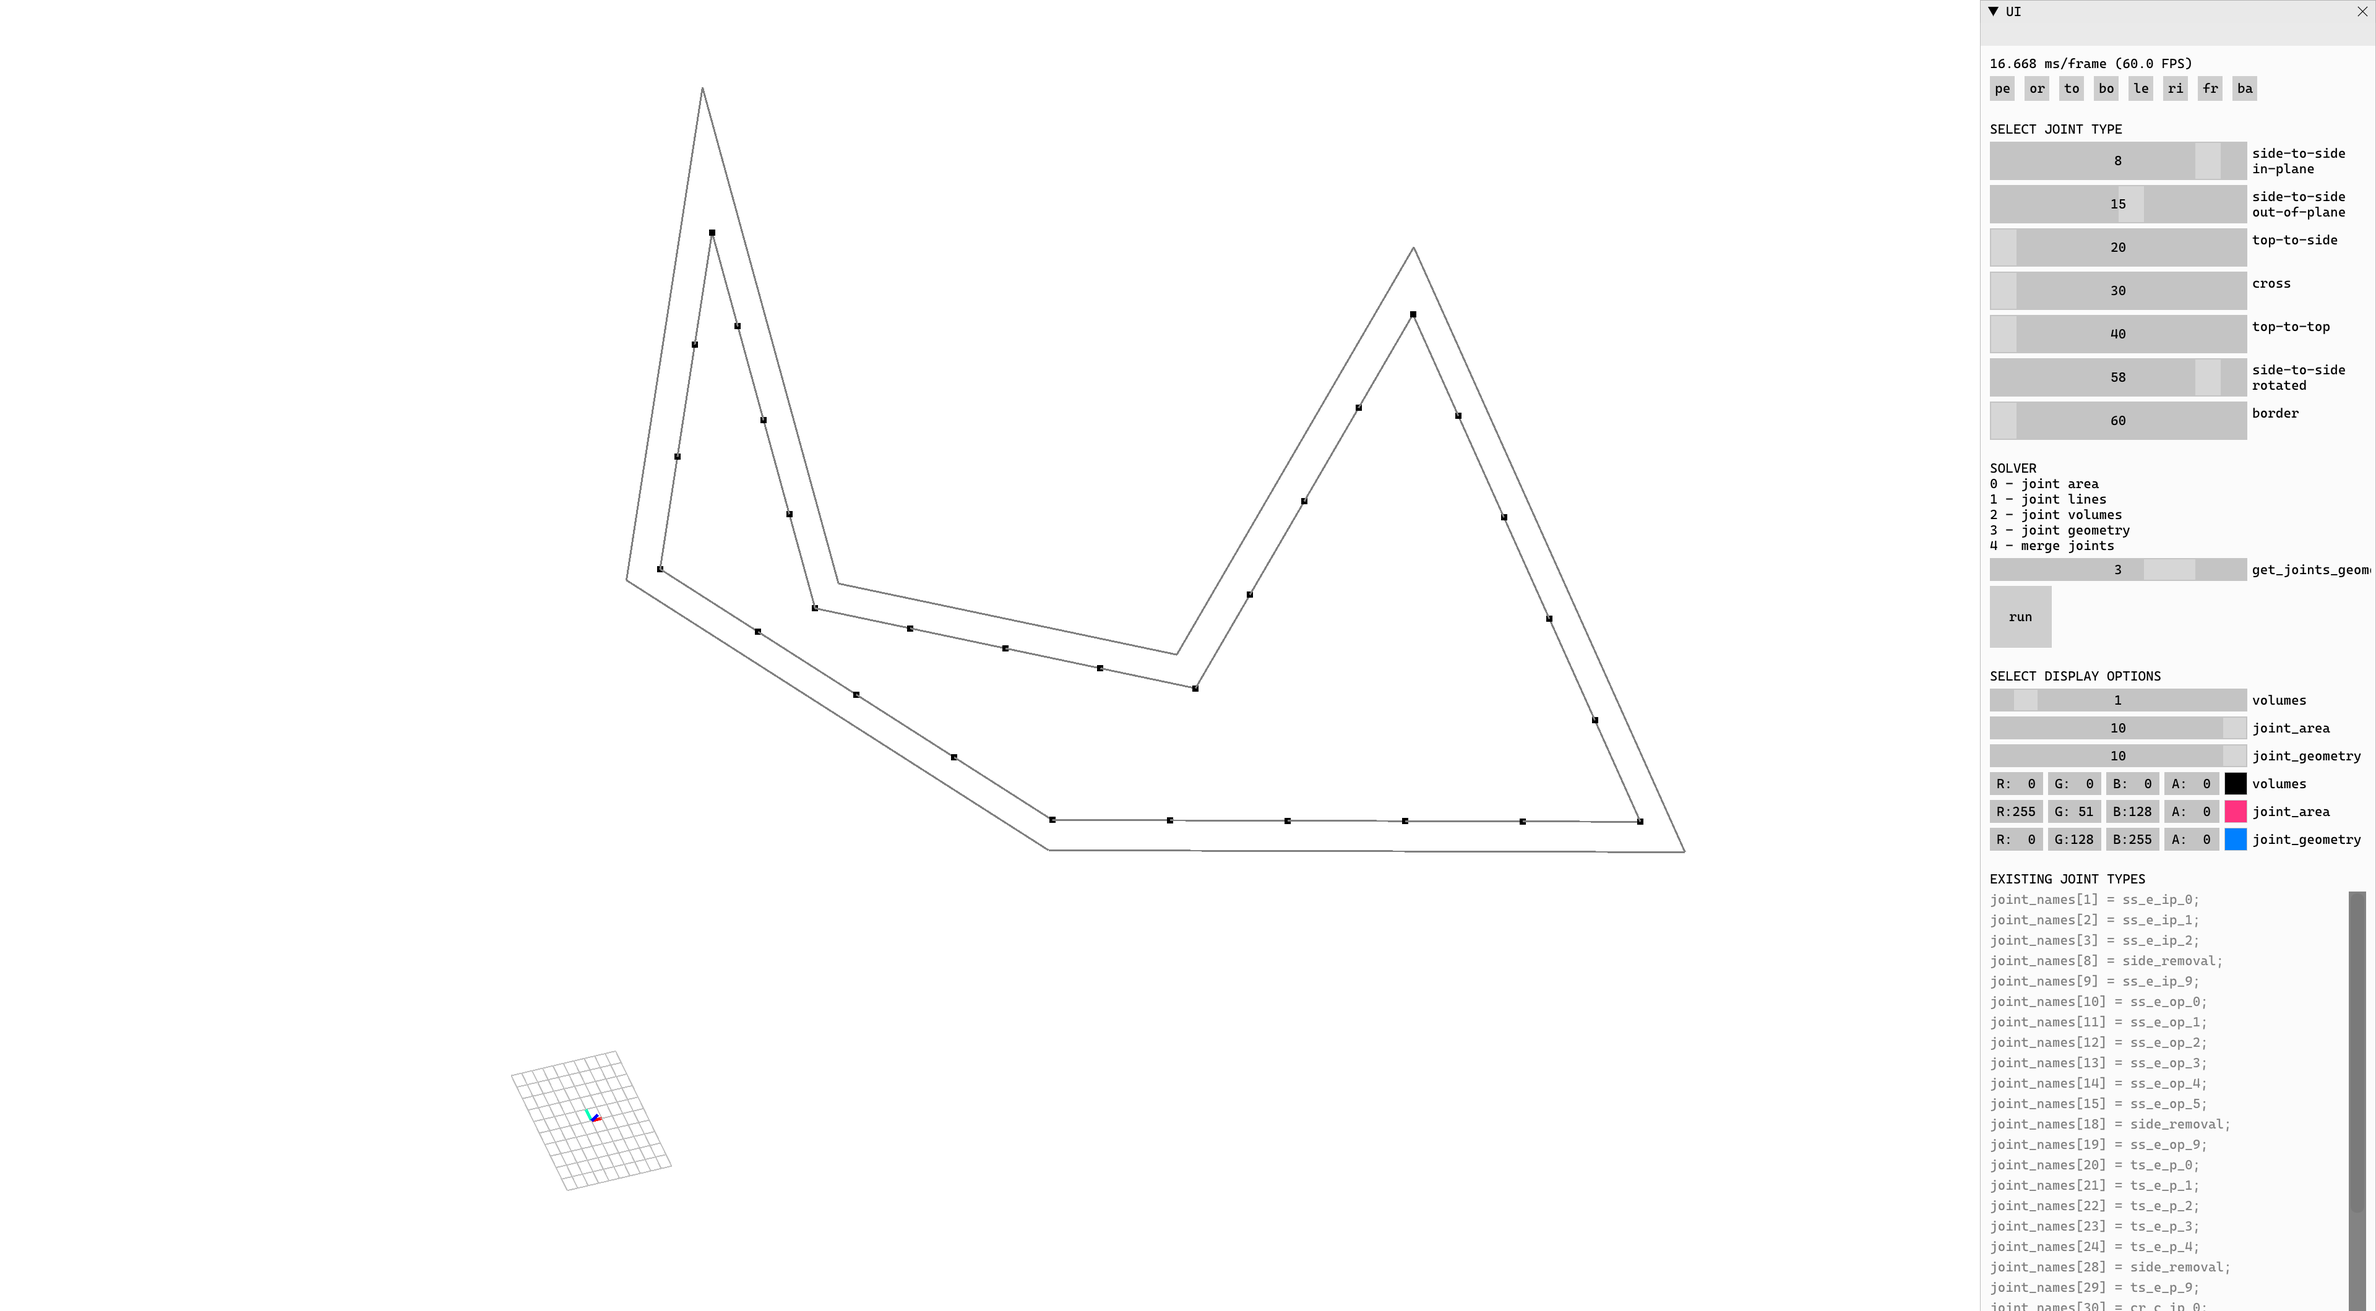
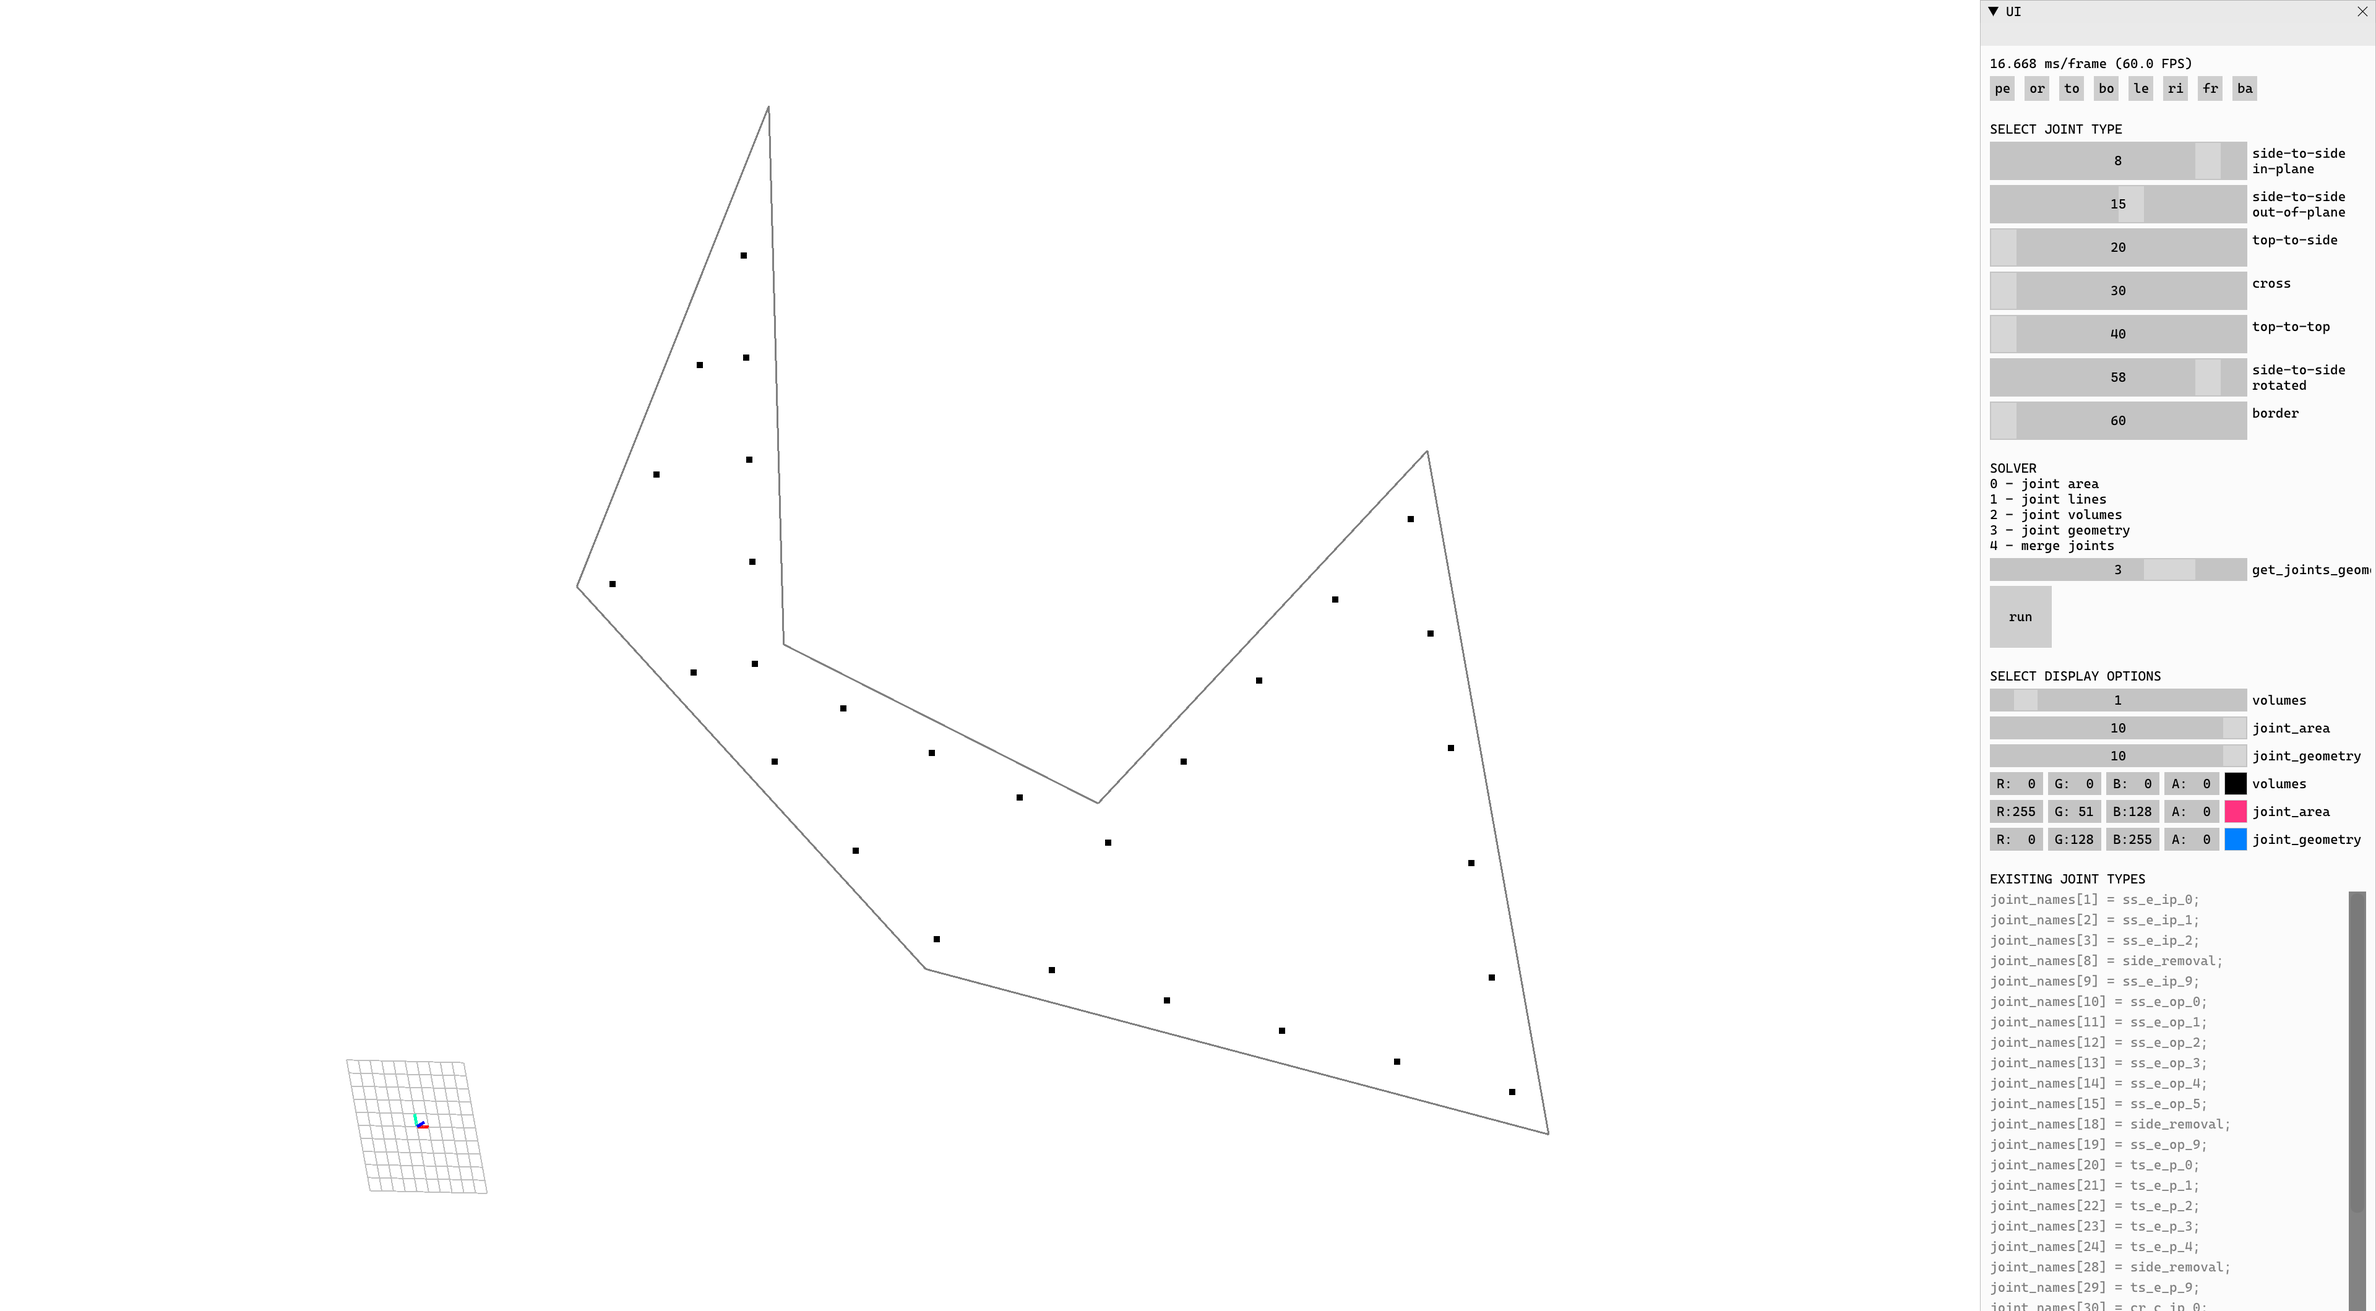
FIX wood_test -> wrap the offset into a separate method type_geometry_name_offest_polygon_inside_and_divide_into_points and, add offset to type_geometry_name_grid_of_points_in_a_polygo, add no trasform offset in 2Dn

Changed region(s): [[0.1562, 0.8098, 0.2812, 0.9033], [0.625, 0.6229, 0.6562, 0.6541], [0.4375, 0.6229, 0.4688, 0.6541]]

diff --git a/backend/src/wood/include/clipper_util.h b/backend/src/wood/include/clipper_util.h
@@ -152,6 +152,82 @@ namespace clipper_util
         return true;
     }
 
+    inline bool offset_2D_no_orient(
+        CGAL_Polyline &p0,
+        const double &offset,
+        double scale = 100000.0)
+    {
+        /////////////////////////////////////////////////////////////////////////////////////
+        // Orient from 3D to 2D
+        /////////////////////////////////////////////////////////////////////////////////////
+        if (p0.size() > p0.max_size())
+            return false;
+
+        CGAL_Polyline a = p0;
+
+        /////////////////////////////////////////////////////////////////////////////////////
+        // Convert to Clipper
+        /////////////////////////////////////////////////////////////////////////////////////
+        Clipper2Lib::Path64 pathA(a.size() - 1);
+
+        for (int i = 0; i < a.size() - 1; i++)
+        {
+            pathA[i] = Clipper2Lib::Point64((int)(a[i].x() * scale), (int)(a[i].y() * scale));
+        }
+
+        double offset_ = offset * scale;
+        Clipper2Lib::Paths64 C;
+        C.emplace_back(pathA);
+        C = Clipper2Lib::InflatePaths(C, offset_, Clipper2Lib::JoinType::Miter, Clipper2Lib::EndType::Polygon);
+
+        if (C.size() > 0)
+        {
+
+            if (C[0].size() > 3 && std::abs(Area(C[0])) > std::abs(Area(pathA) * GlobalClipperAreaTolerance))
+            { // skip triangles and very small polygons
+
+                // Not Sure if rotation is correct, I doubt that cp_id+1 is needed,
+                int cp_id = 0;
+                double cp_dist = std::pow(pathA[0].x - C[0][0].x, 2) + std::pow(pathA[0].y - C[0][0].y, 2);
+                for (int i = 1; i < C[0].size(); i++)
+                {
+                    double dist = std::pow(pathA[0].x - C[0][i].x, 2) + std::pow(pathA[0].y - C[0][i].y, 2);
+                    if (dist < cp_dist)
+                    {
+                        cp_dist = dist;
+                        cp_id = i;
+                    }
+                }
+                std::rotate(C[0].begin(), C[0].begin() + cp_id, C[0].end());
+                // std::rotate(C[0].begin(), C[0].begin()+ C[0].size()- cp_id, C[0].end());
+
+                p0.clear();
+                p0.resize(C[0].size() + 1);
+
+                for (int i = 0; i < C[0].size(); i++)
+                {
+                    IK::Point_3 p(C[0][i].x / scale, C[0][i].y / scale, 0);
+                    p0[i] = p;
+                }
+
+                p0[C[0].size()] = p0[0]; // Close
+            }
+            else
+            {
+                return false;
+            }
+        }
+        else
+        {
+            return false;
+        }
+
+        /////////////////////////////////////////////////////////////////////////////////////
+        // Output
+        /////////////////////////////////////////////////////////////////////////////////////
+        return true;
+    }
+
     inline bool offset_2D(
         CGAL_Polyline &p0,
         IK::Plane_3 &plane,
@@ -183,17 +259,12 @@ namespace clipper_util
             pathA[i] = Clipper2Lib::Point64((int)(a[i].x() * scale), (int)(a[i].y() * scale));
         }
 
-        // Clipper2Lib::ClipperOffset clipper;
-        // clipper.AddPath(pathA, ClipperLib::JoinType::jtMiter, ClipperLib::EndType::etClosedPolygon);
-        // Clipper2Lib::Paths64 C;
-        // clipper.Execute(C, offset * scale);
 
         double offset_ = offset * scale;
         Clipper2Lib::Paths64 C;
         C.emplace_back(pathA);
         C = Clipper2Lib::InflatePaths(C, offset_, Clipper2Lib::JoinType::Miter, Clipper2Lib::EndType::Polygon);
 
-        // printf("\n offset %f", offset);
 
         if (C.size() > 0)
         {
@@ -303,4 +374,43 @@ namespace clipper_util
         return true;
     }
 
+    /**
+     * offset and divide a planar polyline to points
+     * WARNING: the offset is running the clipper offset algorithm, but only one polyline is outputed
+     * the polyline takes into account 3d outlines
+     * the division method adds all corner points and interpolates corners by a division distance
+     * the method is able to divide open and closed polylines
+     * c) intersection between line and elements have to be computed to get a correct line length
+     *
+     * @param [out] result division points
+     * @param [in] polygon polyline
+     * @param [in] offset_distance distance must be negative to offset the polyline inwards
+     * @param [in] division_distance distance between two points
+     * @return bool if the result is successful, e.g. box is valid or the input polyline has less than 3 points
+     */
+    inline bool offset_and_divide_to_points(std::vector<IK::Point_3> &result, std::vector<IK::Point_3> &polygon, double offset_distance = -2.5, double division_distance = 10)
+    {
+
+        // offset polygon
+        IK::Point_3 center;
+        IK::Plane_3 plane;
+        CGAL_Polyline polygon_copy = polygon;
+        cgal_polyline_util::get_fast_plane(polygon_copy, center, plane);
+        clipper_util::offset_2D(polygon_copy, plane, offset_distance);
+
+        // interpolate two points in steps
+        for (int i = 0; i < polygon_copy.size() - 1; i++)
+        {
+            std::vector<IK::Point_3> division_points;
+            int divisions = (int)std::min(100.0, std::sqrt(CGAL::squared_distance(polygon_copy[i], polygon_copy[i + 1])) / division_distance);
+            cgal_vector_util::interpolate_points(polygon_copy[i], polygon_copy[i + 1], divisions, division_points, 1);
+            result.insert(result.end(), division_points.begin(), division_points.end());
+        }
+
+        // if the polyline is open add the end of the polyline to the points
+        if (CGAL::squared_distance(polygon_copy.front(), polygon_copy.back()) > GlobalToleranceSquare)
+            result.emplace_back(polygon_copy.back());
+
+        return true;
+    }
 }

diff --git a/backend/src/wood/include/wood_test.cpp b/backend/src/wood/include/wood_test.cpp
@@ -1243,7 +1243,7 @@ namespace wood_test
 
         // main method
         std::vector<IK::Point_3> points;
-        cgal_rectangle_util::grid_of_points_in_a_polygon(polygon, 2.5, 100, points);
+        cgal_rectangle_util::grid_of_points_in_a_polygon(polygon, -2.5, 2.5, 100, points);
 
         // display
         opengl_globals_geometry::add_grid();
@@ -1278,35 +1278,48 @@ namespace wood_test
 
         // main method
         std::vector<IK::Point_3> points;
-        double offset_distance = -2.5;
-        double division_distance = 10;
-
-        // offset polygon
-        IK::Point_3 center;
-        IK::Plane_3 plane;
-        CGAL_Polyline polygon_copy = polygon;
-        cgal_polyline_util::get_fast_plane(polygon_copy, center, plane);
-        clipper_util::offset_2D(polygon_copy, plane, offset_distance);
-
-        // interpolate two points in steps
-        for (int i = 0; i < polygon_copy.size() - 1; i++)
-        {
-            std::vector<IK::Point_3> division_points;
-            int divisions = (int)std::min(100.0, std::sqrt(CGAL::squared_distance(polygon_copy[i], polygon_copy[i + 1])) / division_distance);
-            cgal_vector_util::interpolate_points(polygon_copy[i], polygon_copy[i + 1], divisions, division_points, 1);
-            points.insert(points.end(), division_points.begin(), division_points.end());
-        }
-
-        // if the polyline is open
-        if (CGAL::squared_distance(polygon_copy.front(), polygon_copy.back()) > GlobalToleranceSquare)
-        {
-            points.emplace_back(polygon_copy.back());
-        }
+        clipper_util::offset_and_divide_to_points(points, polygon, -2.5, 10);
 
         // display
         opengl_globals_geometry::add_grid();
         viewer_wood::scale = 10;
-        std::vector<CGAL_Polyline> polylines = {polygon, polygon_copy};
+        std::vector<CGAL_Polyline> polylines = {polygon}; //, polygon_copy
+        viewer_wood::add(polylines);
+        viewer_wood::line_thickness = 10;
+        viewer_wood::add(points);
+        viewer_wood::line_thickness = 3;
+        viewer_wood::scale = 1000;
+
+        // test
+        return true;
+    }
+
+    bool type_geometry_name_rectangle_ponts_inscribed_in_a_polygon()
+    {
+
+        // screenshot
+        internal::set_file_path_for_input_xml_and_screenshot("type_geometry_name_rectangle_ponts_inscribed_in_a_polygon");
+
+        // data-set
+        CGAL_Polyline polygon{
+            IK::Point_3(11.2247596176396, -4.60190643733344, 48.9387618537435),
+            IK::Point_3(-5.73799008527948, 27.7396887390699, 38.9994193935361),
+            IK::Point_3(-7.18751465466158, 52.2109764075134, 74.5663582911656),
+            IK::Point_3(1.68332949862521, 18.8956298287167, 52.2485552589767),
+            IK::Point_3(14.0704361211272, 1.10346344393741, 69.2793807577245),
+            IK::Point_3(18.9418950031543, 14.2294672539151, 109.735250000281),
+            IK::Point_3(33.4352381327694, -30.7000564810127, 89.2118909021016),
+            IK::Point_3(11.2247596176396, -4.60190643733344, 48.9387618537435),
+        };
+
+        // main method
+        std::vector<IK::Point_3> points;
+        // clipper_util::offset_and_divide_to_points(points, polygon, -2.5, 10);
+
+        // display
+        opengl_globals_geometry::add_grid();
+        viewer_wood::scale = 10;
+        std::vector<CGAL_Polyline> polylines = {polygon}; //, polygon_copy
         viewer_wood::add(polylines);
         viewer_wood::line_thickness = 10;
         viewer_wood::add(points);
@@ -1316,6 +1329,7 @@ namespace wood_test
         // test
         return false;
     }
+
     /////////////////////////////////////////////////////////////////////////////////////////////////////////////////////////////////////////////
     // GoogleTest
     /////////////////////////////////////////////////////////////////////////////////////////////////////////////////////////////////////////////
@@ -1401,6 +1415,11 @@ namespace wood_test
     TEST(wood, type_geometry_name_offest_polygon_inside_and_divide_into_points)
     {
         EXPECT_EQ(type_geometry_name_offest_polygon_inside_and_divide_into_points(), true);
+    }
+
+    TEST(wood, type_geometry_name_rectangle_ponts_inscribed_in_a_polygon)
+    {
+        EXPECT_EQ(type_geometry_name_rectangle_ponts_inscribed_in_a_polygon(), true);
     }
 
     /////////////////////////////////////////////////////////////////////////////////////////////////////////////////////////////////////////////

diff --git a/backend/src/wood/include/cgal_rectangle_util.h b/backend/src/wood/include/cgal_rectangle_util.h
@@ -379,12 +379,13 @@ namespace cgal_rectangle_util
      * @brief Calculate a grid of points inside a polygon by a) convex hull, b) its bounding box, c) grid of points inside the polygon
      *
      * @param [in] polygon input polyline
+     * @param [in] offset_distance negative value is inqards offset, positive outwards, 0 is ignored
      * @param [in] division_distance distance between points, if 0 the distance is calculated automatically
      * @param [in] max_points number of points
      * @param [out] points output points
      * @return bool flag if the result is valid
      */
-    inline bool grid_of_points_in_a_polygon(CGAL_Polyline &polygon, const double &division_distance, const int &max_points, std::vector<IK::Point_3> &points) // const double &divisions,
+    inline bool grid_of_points_in_a_polygon(CGAL_Polyline &polygon, const double &offset_distance, const double &division_distance, const int &max_points, std::vector<IK::Point_3> &points) // const double &divisions,
     {
 
         /////////////////////////////////////////////////////////////////////////////////////////////////////////////////////////////////////////////
@@ -394,6 +395,12 @@ namespace cgal_rectangle_util
         orient_polyline_to_xy_and_back(polygon, xform_to_xy, xform_to_xy_inv);
         CGAL_Polyline polygon_copy = polygon;
         cgal_polyline_util::Transform(polygon_copy, xform_to_xy);
+
+        /////////////////////////////////////////////////////////////////////////////////////////////////////////////////////////////////////////////
+        // offset polygon if the input is below 0
+        /////////////////////////////////////////////////////////////////////////////////////////////////////////////////////////////////////////////
+        if (offset_distance != 0)
+            clipper_util::offset_2D_no_orient(polygon_copy, offset_distance);
 
         /////////////////////////////////////////////////////////////////////////////////////////////////////////////////////////////////////////////
         // calculate the convex hull
@@ -490,8 +497,8 @@ namespace cgal_rectangle_util
         int divisions_u, divisions_v;
         // if (division_distance != 0)
         //{
-        divisions_u = std::min(std::min(20.0, max_points*0.5), std::floor(std::sqrt(half_dir_u.squared_length()) / division_distance));
-        divisions_v = std::min(std::min(20.0, max_points*0.5), std::floor(std::sqrt(half_dir_v.squared_length()) / division_distance));
+        divisions_u = std::min(std::min(20.0, max_points * 0.5), std::floor(std::sqrt(half_dir_u.squared_length()) / division_distance));
+        divisions_v = std::min(std::min(20.0, max_points * 0.5), std::floor(std::sqrt(half_dir_v.squared_length()) / division_distance));
         //}
         // else
         // {

diff --git a/backend/main.cpp b/backend/main.cpp
@@ -7,14 +7,14 @@ int main(int argc, char **argv)
 	//////////////////////////////////////////////////////////////////////////////////////////////////////////////////////
 	// GoogleTest
 	//////////////////////////////////////////////////////////////////////////////////////////////////////////////////////
-	// wood_test::run_all_tests();
+	wood_test::run_all_tests();
 
 	//////////////////////////////////////////////////////////////////////////////////////////////////////////////////////
 	// Display
 	//////////////////////////////////////////////////////////////////////////////////////////////////////////////////////
 	opengl_globals::shader_type_0default_1transparent_2shaded_3shadedwireframe_4wireframe_5normals_6explode = 2;
 	opengl_globals::shaders_folder = "C:\\IBOIS57\\_Code\\Software\\Python\\compas_wood\\backend\\src\\viewer\\shaders\\";
-	opengl_render::render(wood_test::type_geometry_name_grid_of_points_in_a_polygon);
+	opengl_render::render(wood_test::type_geometry_name_rectangle_ponts_inscribed_in_a_polygon);
 
 	return 0;
 }

diff --git a/backend/src/wood/include/wood_test.h b/backend/src/wood/include/wood_test.h
@@ -172,6 +172,12 @@ namespace wood_test
      */
     bool type_geometry_name_offest_polygon_inside_and_divide_into_points();
 
+     /**
+     * example for geometry
+     * inscribe rectangle in a polygon and divide its edges by points)
+     */
+    bool type_geometry_name_rectangle_ponts_inscribed_in_a_polygon();
+
     /////////////////////////////////////////////////////////////////////////////////////////////////////////////////////////////////////////////
     // GoogleTest
     /////////////////////////////////////////////////////////////////////////////////////////////////////////////////////////////////////////////

diff --git a/backend/src/wood/include/cgal_polyline_util.h b/backend/src/wood/include/cgal_polyline_util.h
@@ -849,4 +849,5 @@ namespace cgal_polyline_util
         return result;
     }
 
+
 }
